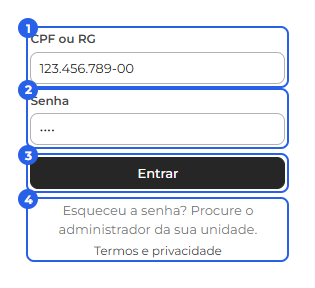
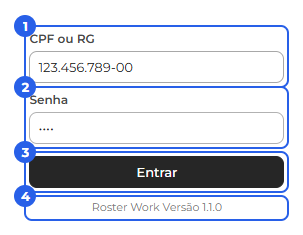
1

diff --git a/manual.html b/manual.html
@@ -344,13 +344,13 @@
               <h3 id="entrar">Entrar no sistema</h3>
               <p>Para usar o Roster Work, cada militar entra com o seu documento e a sua senha.</p>
               <figure class="manual-figura">
-                <img src="manual/imagens/login-entrar.png" alt="Tela de login: campo CPF ou RG (1), campo Senha (2), botão Entrar (3) e, embaixo, a orientação para quem esqueceu a senha e o atalho Termos e privacidade (4)." />
+                <img src="manual/imagens/login-entrar.png" alt="Tela de login: campo CPF ou RG (1), campo Senha (2), botão Entrar (3) e, embaixo, a versão do sistema (4)." />
                 <figcaption>
                   <ol class="manual-chamadas">
                     <li>Campo CPF ou RG</li>
                     <li>Campo Senha</li>
                     <li>Botão Entrar</li>
-                    <li>Orientação para quem esqueceu a senha e o atalho Termos e privacidade</li>
+                    <li>Versão do sistema</li>
                   </ol>
                 </figcaption>
               </figure>
@@ -358,7 +358,7 @@
                 <li><strong>CPF ou RG.</strong> Digite o seu documento. Pode ser o CPF (11 números) ou o RG (8 ou 9 números). O campo coloca os pontos e o traço sozinho.</li>
                 <li><strong>Senha.</strong> Digite a sua senha.</li>
                 <li><strong>Entrar.</strong> Clique no botão Entrar, ou aperte a tecla Enter.</li>
-                <li><strong>Embaixo.</strong> Quem esqueceu a senha procura o administrador da sua unidade (veja <strong>Esqueci minha senha</strong>). <strong>Termos e privacidade</strong> abre, em outra aba, os termos de uso e o aviso de privacidade.</li>
+                <li><strong>Embaixo.</strong> A versão do sistema em uso.</li>
               </ol>
               <p class="manual-nota"><strong>O que as mensagens indicam.</strong> "Usuário não encontrado" aparece quando o documento não está no sistema. "Procure um administrador para liberar o seu acesso" aparece quando você está cadastrado mas ainda não criou a sua conta: peça ao administrador o link de cadastro (veja <strong>Criar conta</strong>). "Senha incorreta" aparece quando a senha não confere.</p>
               <p class="manual-nota"><strong>Já entrou antes?</strong> Enquanto a sua sessão estiver ativa, o sistema abre direto na tela inicial, sem pedir o login de novo.</p>
@@ -406,7 +406,7 @@
               <p class="manual-nota"><strong>Sobre o link.</strong> Ele é pessoal, serve uma vez e vale por 24 horas. Vencido, já usado ou cancelado, a tela avisa; peça um novo ao administrador. Depois de cinco CPFs errados, o link é cancelado. Nenhum dado seu aparece na tela antes do CPF certo.</p>
 
               <h3 id="termos">Termos de uso e privacidade</h3>
-              <p>Os <strong>Termos de uso e privacidade</strong> explicam as regras de uso do sistema e o que ele faz com os seus dados: quais dados guarda, para quê, quem vê, onde ficam, por quanto tempo e quais são os seus direitos. Eles abrem em outra aba pelo atalho <strong>Termos e privacidade</strong>, na tela de entrada e no menu do canto (seu nome).</p>
+              <p>Os <strong>Termos de uso e privacidade</strong> explicam as regras de uso do sistema e o que ele faz com os seus dados: quais dados guarda, para quê, quem vê, onde ficam, por quanto tempo e quais são os seus direitos. Eles abrem em outra aba pelo atalho <strong>Termos e privacidade</strong>, no menu do canto (seu nome).</p>
               <p><strong>Ciência.</strong> Você confirma que leu os termos ao criar a conta. Se você ainda não confirmou, ou quando os termos ganham uma versão nova, uma janela aparece ao entrar: <strong>Ler os termos</strong> abre o texto, <strong>Estou ciente</strong> registra a sua ciência e libera o sistema, e <strong>Sair</strong> encerra a sessão.</p>
               <p><strong>Onde ver a sua ciência.</strong> Em <strong>Meu perfil</strong>, na seção Privacidade da aba Perfil, aparecem a versão de que você está ciente e a data.</p>
 

diff --git a/termos.html b/termos.html
@@ -41,7 +41,7 @@
         <p class="termos-item"><strong>8. Quais dados.</strong> Cadastro: nome completo, CPF, RG, data de nascimento, categoria da CNH, celular e e-mail. Carreira: posto ou graduação, quadro, nome de guerra, inclusão no quadro, datas de promoção, colocação no curso de formação, antiguidade, setor e lotação. Escala: serviços, trocas, folgas, férias, licenças e dispensas (só o tipo e o período, sem diagnóstico nem dado médico) e extrajornada. Uso do sistema: o registro do que cada um alterou, as preferências (como o tema) e a ciência destes termos.</p>
         <p class="termos-item"><strong>9. Para quê.</strong> Somente para organizar a escala de serviço: montar a escala, distribuir as funções, tratar trocas, folgas, afastamentos e extrajornada, avisar os envolvidos e manter o histórico. Os dados não são vendidos, cedidos nem compartilhados com terceiros.</p>
         <p class="termos-item"><strong>10. Quem vê.</strong> Todos os militares com acesso veem a escala e os dados de cadastro dos colegas (nome, CPF, RG, nascimento, CNH, celular e e-mail). Somente os administradores alteram dados, cadastram militares, aprovam pedidos e veem o histórico e o motivo de licenças e dispensas. Ninguém vê a sua senha, nem os administradores.</p>
-        <p class="termos-item"><strong>11. Onde ficam.</strong> Os dados ficam na plataforma Supabase. Na fase de testes, o servidor fica nos Estados Unidos; no uso com dados reais, em São Paulo, no Brasil. As telas do sistema ficam na plataforma GitHub, que não guarda dados pessoais.</p>
+        <p class="termos-item"><strong>11. Onde ficam.</strong> Os dados ficam na plataforma Supabase. O servidor fica em São Paulo, no Brasil. As telas do sistema ficam na plataforma GitHub, que não guarda dados pessoais.</p>
         <p class="termos-item"><strong>12. Por quanto tempo.</strong> Enquanto você fizer parte do efetivo que usa o sistema. Quem recebe baixa tem o acesso desativado, e os registros da escala ficam guardados pelo prazo que a corporação definir. Se o piloto terminar sem continuidade, os dados pessoais são apagados em até 30 dias.</p>
         <p class="termos-item"><strong>13. Segurança.</strong> O acesso exige login e senha. A senha é guardada de forma criptografada. A conexão é protegida (https). As permissões são conferidas no banco de dados, e a sessão encerra sozinha depois de 2 horas sem uso.</p>
         <p class="termos-item"><strong>14. Seus direitos.</strong> Você pode ver os seus dados em Meu perfil, pedir a correção em Meu perfil › Meus dados e pedir informações sobre o uso dos seus dados pelo contato abaixo.</p>

diff --git a/js/index-sessao-vigia.js b/js/index-sessao-vigia.js
@@ -12,16 +12,7 @@
 
   var RW = window.RosterWork = window.RosterWork || {};
 
-  /* ⚠⚠ TEMPORÁRIO — SÓ PARA OS TESTES. REVERTER PARA false QUANDO OS TESTES ACABAREM.
-     Enquanto true, a sessão não cai no meio dos testes: o timer de inatividade vai a 12h
-     e o token é renovado ao voltar o foco/visibilidade da aba — isso resolve o caso das
-     3 abas simultâneas, em que as de 2º plano têm o timer estrangulado pelo navegador e o
-     token de 1h vence antes de renovar. NÃO é a segurança de produção: o vencimento de 1h
-     do token em si é o "JWT expiry" no dashboard do Supabase (esse não muda por aqui).
-     Ver DOCUMENTACAO.md › Login/Sessão (nota "MODO DE TESTE"). */
-  var MODO_TESTE = true;
-
-  var INATIVIDADE_MS = (MODO_TESTE ? 12 : 2) * 60 * 60 * 1000;   /* sem ação encerram a sessão (2h em produção) */
+  var INATIVIDADE_MS = 2 * 60 * 60 * 1000;     /* 2h sem ação encerram a sessão */
   var AVISO_MS = 60 * 1000;                    /* o aviso aparece nos últimos 60s (contagem de 1:00) */
   var FOLGA_RENOVAR_MS = 2 * 60 * 1000;        /* renova o token quando falta menos que isto para vencer */
   var ANEL_TRACO = 3;                          /* espessura do anel, em px CSS */
@@ -48,7 +39,6 @@
   /* ---------- relógio de inatividade ---------- */
 
   function reiniciarInatividade() {
-    if (MODO_TESTE) return;    /* ⚠ TESTE: sem expiração por inatividade (não agenda o aviso) */
     if (avisoAberto) return;   /* durante o aviso, só "Continuar" reinicia */
     clearTimeout(timerInatividade);
     timerInatividade = setTimeout(mostrarAviso, INATIVIDADE_MS - AVISO_MS);
@@ -180,14 +170,6 @@
     document.addEventListener('keydown', reiniciarInatividade, true);
     reiniciarInatividade();
     intervaloRenovar = setInterval(talvezRenovar, 60 * 1000);
-
-    /* MODO DE TESTE: renova ao voltar o foco/visibilidade da aba (a de 2º plano tem o
-       timer estrangulado; ao voltar, o token pode estar vencido → renova antes da ação).
-       ⚠ TEMPORÁRIO — some junto com MODO_TESTE. */
-    if (MODO_TESTE) {
-      document.addEventListener('visibilitychange', function () { if (!document.hidden) talvezRenovar(); });
-      window.addEventListener('focus', talvezRenovar);
-    }
   }
 
   if (document.readyState === 'loading') {

diff --git a/login.html b/login.html
@@ -49,9 +49,9 @@
         <button class="botao botao--primario" id="btn-entrar" type="button">Entrar</button>
 
         <div class="login-links">
-          <!-- a conta e a senha nova saem de um link que o administrador gera na ficha -->
-          <p class="login-ajuda">Esqueceu a senha? Procure o administrador da sua unidade.</p>
-          <button class="botao botao--texto" type="button" id="btn-termos">Termos e privacidade</button>
+          <!-- "Fale conosco" fica oculto até a página dele existir; até lá, o espaço mostra a versão do sistema -->
+          <button class="botao botao--texto oculto" type="button" id="btn-fale-conosco">Fale conosco</button>
+          <p class="login-versao">Roster Work Versão 1.1.0</p>
         </div>
       </div>
 

diff --git a/css/login-pagina.css b/css/login-pagina.css
@@ -18,9 +18,10 @@
   box-shadow: var(--sombra-bloco);
 }
 
+/* o logo fica no meio da altura do formulário */
 .login-logo {
   display: flex;
-  align-items: flex-start;
+  align-items: center;
   justify-content: center;
   padding: 32px;
 }
@@ -55,11 +56,11 @@
   align-items: flex-start;
 }
 
-/* orientação fixa embaixo do Entrar: a senha nova se pede ao administrador */
-.login-ajuda {
+/* versão do sistema embaixo do Entrar (ocupa o espaço do "Fale conosco"): informação, não ação */
+.login-versao {
   margin: 0;
   width: 100%;
-  font-size: 13px;
+  font-size: 11px;
   color: var(--texto-fraco);
   text-align: center;
 }

diff --git a/componentes/js/geral-api.js b/componentes/js/geral-api.js
@@ -13,8 +13,8 @@
 
   window.RosterWork = window.RosterWork || {};
 
-  var SUPABASE_URL = 'https://dyrroflwjsntlunwteod.supabase.co';
-  var SUPABASE_KEY = 'sb_publishable_UsjhNoRoOrKQdNhmt-oj4g_3a7fvl52';
+  var SUPABASE_URL = 'https://oadzjrekpuddagfydfzn.supabase.co';
+  var SUPABASE_KEY = 'sb_publishable_NKSki2dWOD6k6_jle3Ha7w_uq1nYcXx';
 
   /* ---------- sessão (sessionStorage) ---------- */
 

diff --git a/js/login-auth.js b/js/login-auth.js
@@ -1,8 +1,8 @@
 (function () {
   'use strict';
 
-  var SUPABASE_URL = 'https://dyrroflwjsntlunwteod.supabase.co';
-  var SUPABASE_KEY = 'sb_publishable_UsjhNoRoOrKQdNhmt-oj4g_3a7fvl52';
+  var SUPABASE_URL = 'https://oadzjrekpuddagfydfzn.supabase.co';
+  var SUPABASE_KEY = 'sb_publishable_NKSki2dWOD6k6_jle3Ha7w_uq1nYcXx';
 
   function mascaraCpfRg(nums) {
     if (nums.length <= 9) {

diff --git a/js/login-main.js b/js/login-main.js
@@ -41,10 +41,3 @@
   });
 
 })();
-
-/* "Termos e privacidade" abre a página pública em outra aba (o login continua aberto) */
-(function () {
-  'use strict';
-  var botao = document.getElementById('btn-termos');
-  if (botao) botao.addEventListener('click', function () { window.open('termos.html', '_blank', 'noopener'); });
-})();
